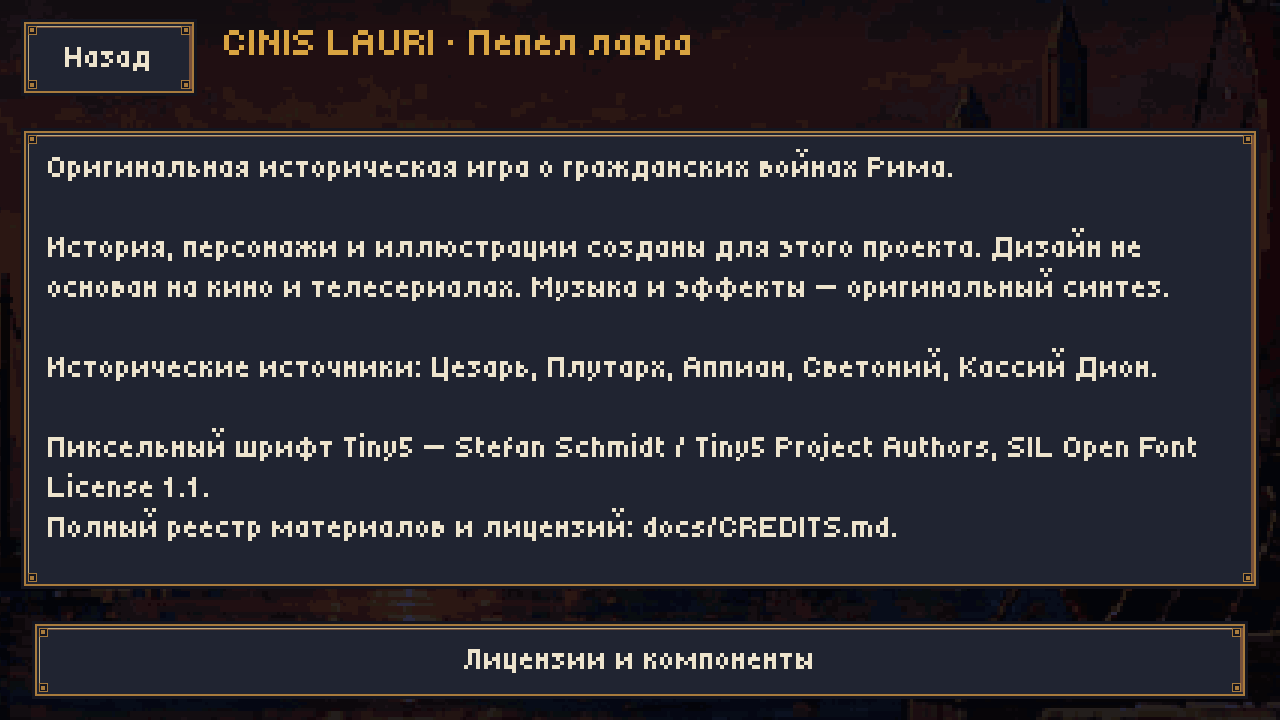
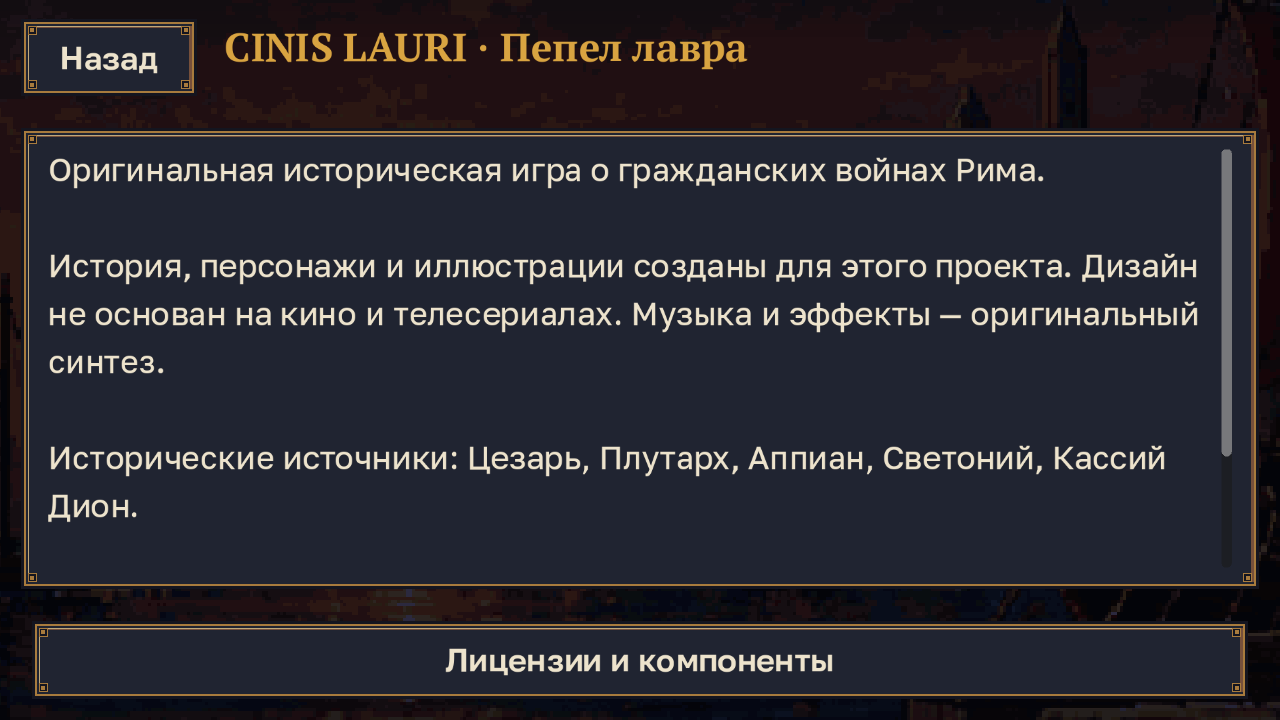
docs: publish verified 0.4.1 font screenshots and Android delivery report [skip ci]

diff --git a/docs/STATUS.md b/docs/STATUS.md
@@ -1,19 +1,52 @@
-# Статус — типографика 0.4.1 (сборка)
+# Статус — читаемая типографика 0.4.1
 
-18 октября 2026. По запросу на красивый и максимально читаемый шрифт Tiny5
-заменён на Golos Text 450 для чтения, 600 для кнопок/имён и PT Serif Bold
-для крупных заголовков. Включены сглаживание, hinting, oversampling и отдельный
-linear-фильтр текста. Пиксельная графика продолжает использовать nearest.
+18 октября 2026. Репозиторий: `elcin31/rome-civil-wars-game`.
 
-Область диалога увеличена до 152 px; интервалы — 6 px, страницы по 3–4 строки
-с учётом фактической высоты. На плотном экране основной текст не меньше 16 sp.
-У кнопок сохранены целые слова и внутренние поля; длинные поручения лагеря
-получили более высокую панель. Полные OFL-тексты доступны в игре.
+По запросу на красивый и максимально читаемый шрифт Tiny5 заменён на
+Golos Text 450 для чтения, 600 для кнопок/имён и PT Serif Bold для крупных
+заголовков. Полная кириллица проверена во всех трёх файлах. Сглаживание,
+hinting, oversampling и отдельный linear-фильтр текста сохраняют чёткость букв;
+мир продолжает использовать nearest. Полные лицензии OFL включены в APK и меню.
+Исходник Golos сохранён, статические веса воспроизводит tools/build_fonts.py.
 
-Локально пройдены 20 GUT / 139 утверждений, 24 сюжетных маршрута, игровой бот,
-191 экран при 1280×720, быстрые семь разрешений и отдельный 420 dpi.
-Идёт итоговая сборка/проверка APK 0.4.1 (code 5). Результаты выдачи будут
-записаны после проверки и публикации. Ниже — отчёт предыдущего релиза.
+Диалог получил 152 px под 3–4 строки, интервал 6 px и автоматический размер
+не меньше 16 sp на плотном экране. Строки считаются по фактической высоте.
+Кнопки сохраняют целые слова и внутренние поля; длинные подсказки лагеря
+получили больше места. [Сравнение до/после](typography_before_after.png).
+
+## Проверенный выпуск 0.4.1
+
+CI **39096850736 — success**: https://github.com/elcin31/rome-civil-wars-game/actions/runs/39096850736
+Исходный commit APK: `fe0a69817a7f72ef0b3af9fa4e370126dd75d54f`.
+20 GUT-тестов / 139 утверждений, 24 маршрута, 29 эпизодов,
+114 вариантов ответа, четыре концовки; игровой бот прошёл 167534 действия.
+Визуальный прогон — 1337 кадров в семи разрешениях, 27426 проверок
+и 3521 касание; ещё 27 кадров, 1394 проверок
+и 151 касание при 420 dpi. Ошибок нет; отдельно проверяются
+16 sp основного текста, переносы слов кнопок, рамки, safe area и ScreenTouch.
+
+Android API 35/x86_64 из того же игрового кода: установка, чтение до хаба,
+джойстик, поручение, закрытие процесса, восстановление и новое движение пройдены.
+Кадры просмотрены: шрифты читаются, длинное поручение внутри рамки,
+ошибок скриптов/шейдеров нет. am start TotalTime 2069 мс — показание
+эмулятора, не замер времени до интерактивности на физическом телефоне.
+Первый Android-кадр показывает splash; сценарий затем ожидает реальную кнопку
+«Новая игра». Меню на сравнительном листе снято настольным рендерером, хаб — Android.
+
+[Скачать rome-civil-wars-2026-10-18.zip](https://github.com/elcin31/rome-civil-wars-game/releases/download/v0.4.1/rome-civil-wars-2026-10-18.zip) — APK + инструкция.
+Android 7.0+, ARM64, 0.4.1/code 5, SDK 24/36, разрешений нет.
+APK 35544454 байт (33.90 МиБ), подпись v2/v3.
+ZIP 35013290 байт скачан после публикации и совпал с проверенным:
[1 lines of base64/hex data omitted]
+Публикация: workflow 39097591210; отчёты android_apk_verification.json,
+android_smoke.json, ui_validation.json и ui_density_validation.json.
+Отчётный коммит меняет документацию, бинарный файл соответствует source commit.
+
+Программный OpenGL llvmpipe ПК: тактика 56–61 FPS, остальные пять режимов
+60 FPS. Максимум статической памяти Godot 45,17 МиБ; 20 пауз/возвратов:
+24 → 24 узла, 44,54 → 44,69 МиБ. Это не замер полного расхода Android.
+Проверки физического телефона и художественная доводка из KNOWN_ISSUES остаются.
+Debug-подпись может потребовать переустановки; удаление игры удаляет сохранения.
 
 ---
 

diff --git a/docs/KNOWN_ISSUES.md b/docs/KNOWN_ISSUES.md
@@ -1,10 +1,10 @@
-# Известные проблемы и ограничения 0.4.0
+# Известные проблемы и ограничения 0.4.1
 
 Обновлено 18 октября 2026. Играбельная debug-сборка, основная история закончена.
 
 | ID | Статус | Проблема / предел проверки |
 | --- | --- | --- |
-| QA-01 | требует устройства | 60 FPS, холодный старт ≤5 с и полную память ≤600 МБ нужно измерить на среднем физическом Android. Программный OpenGL ПК: тактика 44–61 FPS, хаб 58–60, другие режимы 59–61; статическая память Godot ≤37,55 МиБ. |
+| QA-01 | требует устройства | 60 FPS, холодный старт ≤5 с и полную память ≤600 МБ нужно измерить на среднем физическом Android. Программный OpenGL ПК: тактика 56–61 FPS, другие пять режимов 60; статическая память Godot ≤45,17 МиБ. |
 | QA-02 | требует устройства | Реальный звонок, аудиофокус/Bluetooth, вырезы, фактические 48 dp, низкая память и убийство ОС — ручной чек-лист. |
 | ART-02 | ручная доводка | Новые idle/walk/attack/block/hurt для 25 персонажей; run повторяет шаг, у основных героев спина сохранена из прежнего набора. Полные нарисованные циклы и возрастные спрайты ещё требуют художника. Нужны ручная чистка кластеров, возрастные спрайты, отдельные спрайты лучников/конницы (сейчас общий солдат + обозначение типа) и уточнение исторической архитектуры/декораций. |
 | LOC-01 | открыто, необязательно по заданию | Английский перевод отсутствует; поля en подготовлены, меню не предлагает пустой язык. |
@@ -13,7 +13,7 @@
 | SAVE-01 | исправлено | Три слота, атомарная запись, валидная резервная копия, миграция прежних флагов и XP за завершённые задания. |
 | SAVE-02 | исправлено | После JSON-загрузки числа нормализуются: предметы не дублируются, тактические команды восстанавливаются. Проверено в середине прыжка/боя. |
 | HERO-01 | исправлено | После гибели Ворена управление переходит к Пулону; погибший напарник не появляется в игровых слоях. |
-| BUILD-01 | исправлено | Финальный run 39094711525 зелёный, включая Android smoke, кадры и восстановление. |
+| BUILD-01 | исправлено | Финальный run 39096850736 зелёный, включая Android smoke, кадры и восстановление. |
 | BUILD-02 | обойдён | После двух ошибок конфигурации Gradle-путь оставлен. Используется готовый шаблон Godot 4.6.3, SDK 24/36; включён обязательный ETC2/ASTC import. |
 | ART-01 | исправлено | 9 финальных композиций, иконки и пять переходных экранов подключены, общая палитра проверена. |
 | BALANCE-01 | ручная доводка | Максимальная сложность рассчитана на предыдущий XP и лавку. Бот проходит все маршруты с обычной прогрессией; настройка удобства/сложности для живого игрока ещё желательна. |

diff --git a/docs/QA_CHECKLIST.md b/docs/QA_CHECKLIST.md
@@ -1,4 +1,4 @@
-# Проверка Android 0.4.0
+# Проверка Android 0.4.1
 
 18 октября 2026. Автоматические проверки не заменяют физический телефон.
 APK: ARM64, Android 7.0/API 24+, ландшафт, без разрешения INTERNET.
@@ -16,10 +16,10 @@ APK: ARM64, Android 7.0/API 24+, ландшафт, без разрешения I
 | Нехватка памяти | Ограничен размер JSON, проверяются ошибки записи | Низкая память, заполненное хранилище, убийство процесса ОС |
 | Поворот экрана | Зафиксирована landscape-ориентация | Заблокировать/разблокировать поворот ОС |
 | 16:9–21:9 и вырезы | Адаптивный UI: 1280×720, 1920×1080, 2160×1080, 2340×1080, 2400×1080, 2560×1080, 800×480; моделируемый вырез | Телефон с вырезом, жестовая навигация |
-| Читаемость и касания | Реальные ScreenTouch, цели ≥48 dp при плотности 1 и 2,625; проверка текста и пересечений, включая имя NPC | Проверить минимум 48 dp на целевом DPI |
+| Читаемость и касания | Реальные ScreenTouch, цели ≥48 dp при плотности 1 и 2,625; основной текст ≥16 sp, целые слова кнопок, проверка рамок/пересечений, включая имя NPC | Проверить минимум 48 dp на целевом DPI |
 | Звук | 3 оригинальные петли, 5 эффектов Ogg, ограниченный пул голосов | Наушники, Bluetooth, громкости, аудиофокус |
 | Производительность | См. desktop_performance.json; это программный OpenGL ПК | 60 FPS, холодный старт ≤5 с, память ≤600 МБ |
-| Установка и холодный рестарт | Пройдено API 35/x86_64: касания, кадры, поручение, рестарт и новое движение (run 39094711525) | Установить финальный ARM64 APK |
+| Установка и холодный рестарт | Пройдено API 35/x86_64: касания, кадры, поручение, рестарт и новое движение (run 39096850736) | Установить финальный ARM64 APK |
 
 Эмуляторный сценарий устанавливает APK, читает начало истории касаниями,
 доходит до реального хаба, принимает поручение джойстиком и кнопкой,
